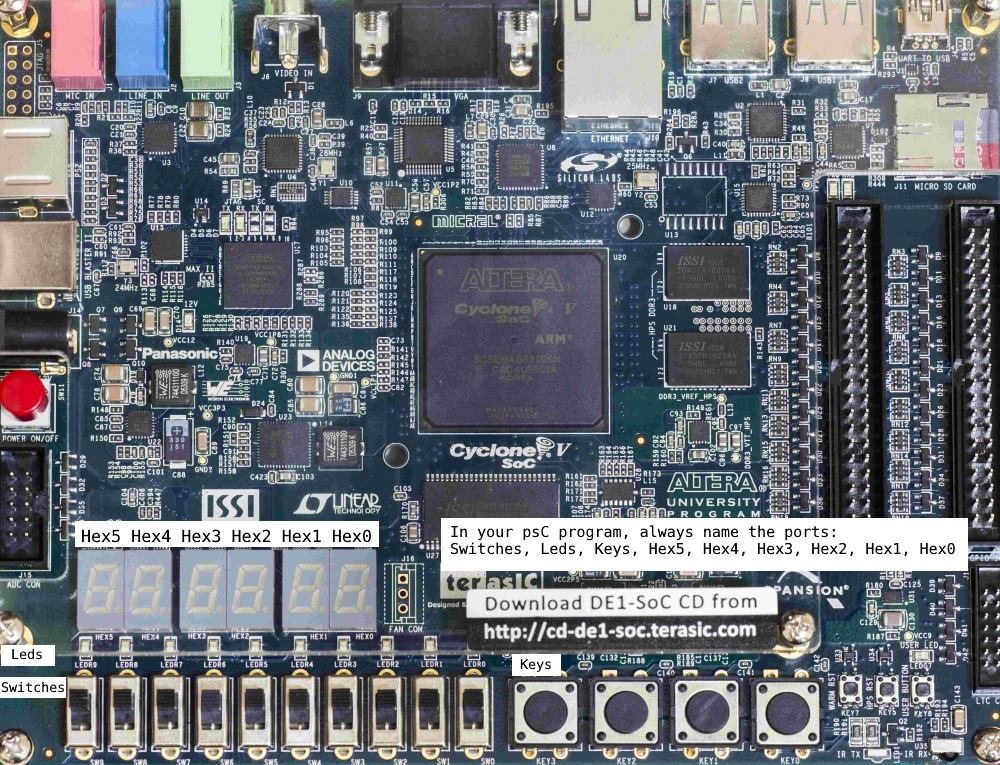
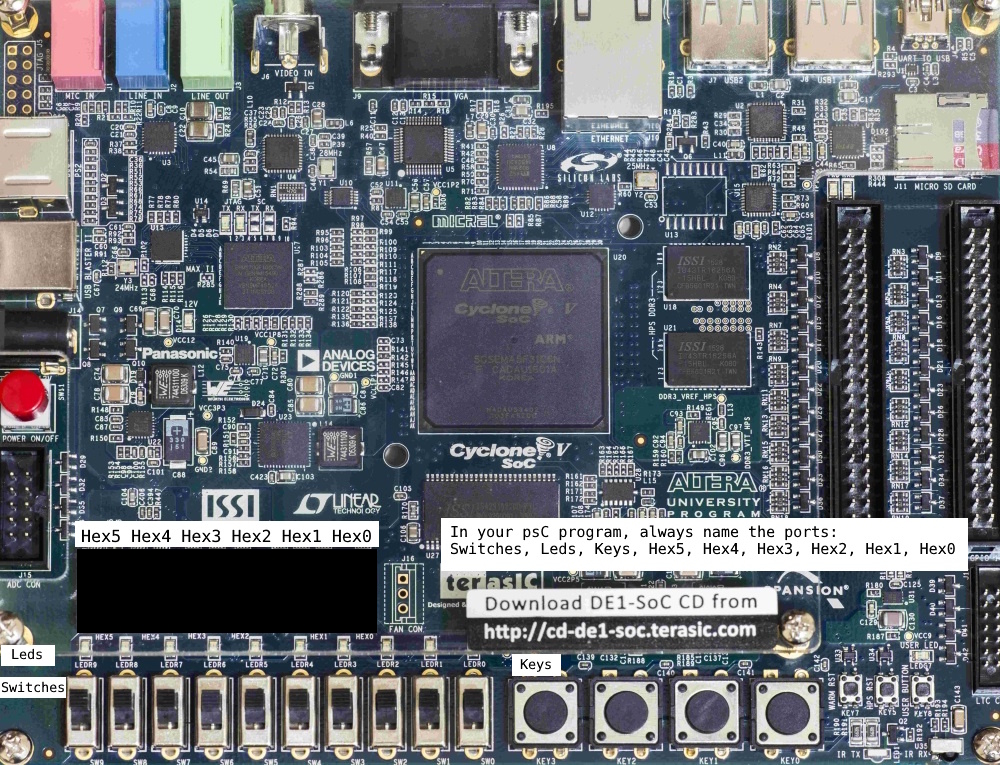
Minor changes DE1SoC, board picture, 7-segments background color

Changed region(s): [[0.062, 0.6915, 0.403, 0.8418]]

diff --git a/WebSessions/SessionOK/DE1SoC/DE1SoC/index.html b/WebSessions/SessionOK/DE1SoC/DE1SoC/index.html
@@ -132,7 +132,7 @@ body {
 
 .seg7-digit .seg {
 	position: absolute;
-	background: #777;
+	background: #000;
 	border-radius: 2px;
 }
 

diff --git a/WebTemplates/DE1SoC/index.html b/WebTemplates/DE1SoC/index.html
@@ -132,7 +132,7 @@ body {
 
 .seg7-digit .seg {
 	position: absolute;
-	background: #777;
+	background: #000;
 	border-radius: 2px;
 }
 
